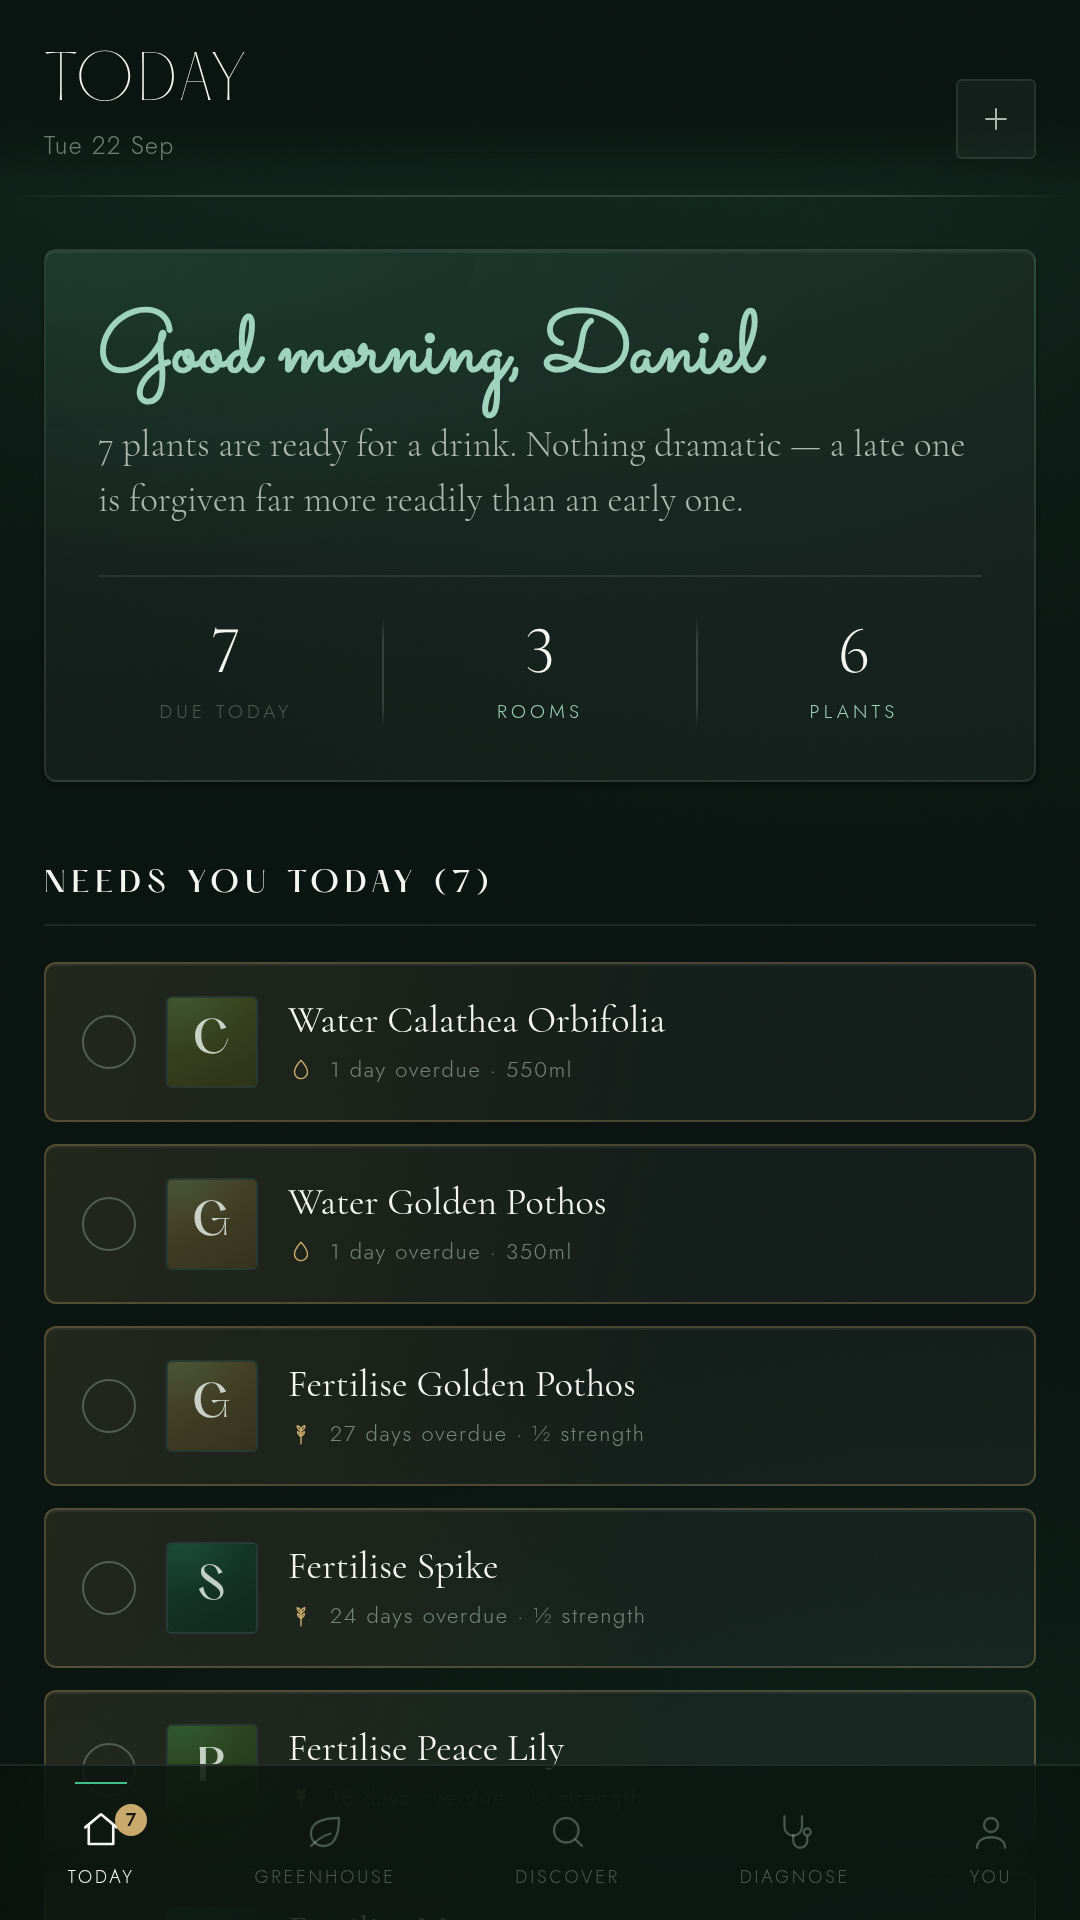
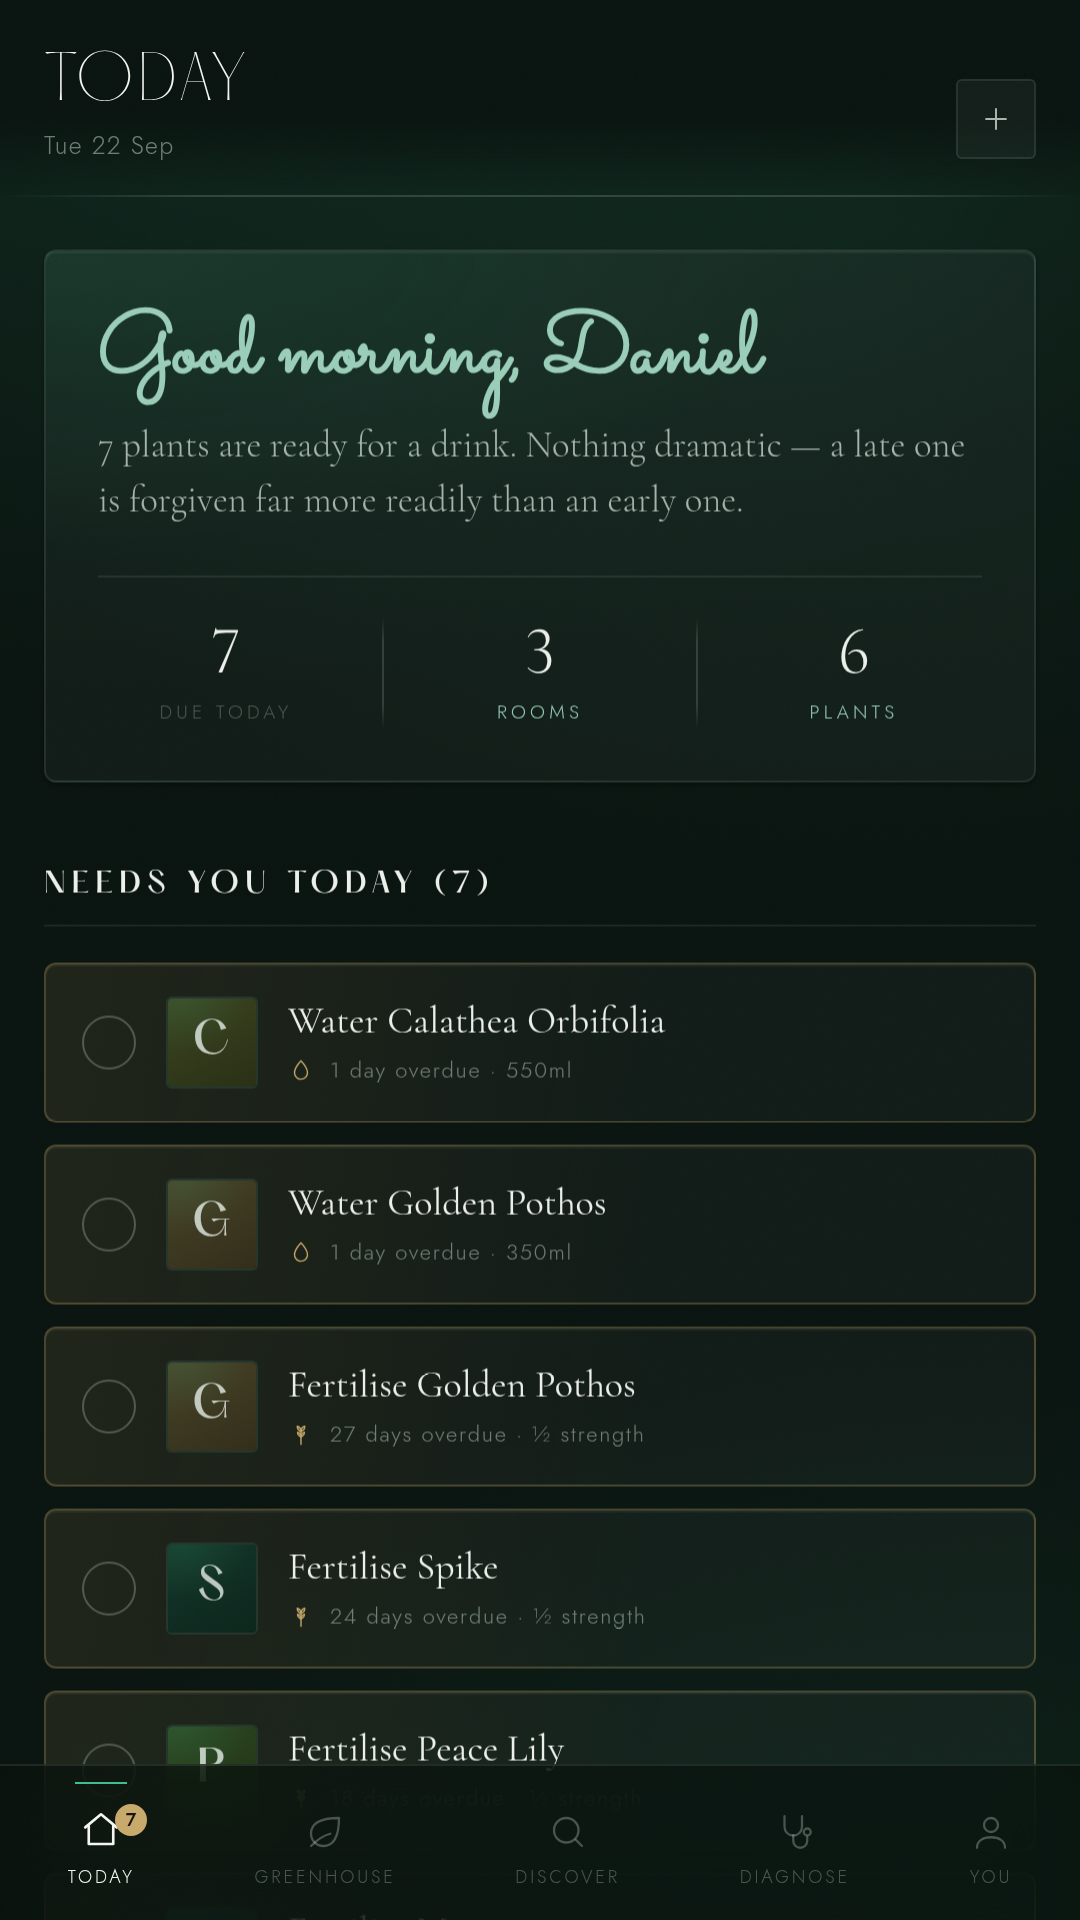
Put the forecast under the task list, and add the plan to the store set
The weather card sat directly under the greeting, above the one list the
Today screen exists for, and its bottom edge touched the heading below it.
Both were the same oversight from opposite ends: .weather-strip had a
margin-top and no margin-bottom, while .section has a margin-bottom and no
margin-top, so nothing separated them.

The forecast now follows the task list. It is context for the tasks rather
than a headline of its own, so what needs doing today is the first thing
past the greeting and the weather explains it afterwards.

The card takes .section's 42px as its bottom margin so it keeps the page's
rhythm. Adjacent margins collapse, so following a section that is one 42px
gap rather than two stacked — measured, not assumed: 42px above and 42px
below where there had been 0. No divider was added. The card already carries
a border, and a rule under a bordered box is a second line doing the first
one's job.

The store set gains the isometric home view as 3-plan.png, which is the most
distinctive screen in the app and the one most likely to earn an install. It
is a real device screenshot rather than a generated one because it cannot be
generated here: the view is behind a HOME toggle, mode starts at 'plan', and
headless cannot click, so it only ever reaches the flat grid.

It arrived at 1080x2229 — a ratio of 2.064, which Play rejects, since the
long side may be at most twice the short. Trimming 69px from the top lands
[…]

diff --git a/js/views/today.js b/js/views/today.js
@@ -232,7 +232,12 @@ window.ViewToday = (function () {
       '</div>' + weatherStrip();
     }
 
-    let html = greeting() + weatherStrip() + nudges();
+    /* The forecast used to sit directly under the greeting, above the one
+       list this screen exists for. It is context for the tasks, not a
+       headline of its own, so it now follows them — what needs doing today
+       is the first thing past the greeting, and the weather explains it
+       afterwards. */
+    let html = greeting() + nudges();
 
     const due = Schedule.tasks(0);
     const soon = Schedule.tasks(7).filter(function (t) { return t.days > 0; });
@@ -251,6 +256,8 @@ window.ViewToday = (function () {
             '<p class="tiny muted mt-0">No plants are in need — great job.</p>' +
           '</div>') +
     '</div>';
+
+    html += weatherStrip();
 
     if (soon.length) {
       html += '<div class="section">' +

diff --git a/css/styles.css b/css/styles.css
@@ -3320,7 +3320,13 @@ img { max-width: 100%; display: block; }
   grid-template-columns: auto minmax(0, 1fr);
   align-items: center;
   column-gap: 18px;
-  margin-top: 14px;
+  /* Bottom margin matches .section so the card keeps the page's rhythm
+     instead of butting straight into the next heading, which is what it did
+     when it only had a top margin. Adjacent margins collapse, so following a
+     .section this is one 42px gap rather than two stacked. No divider: the
+     card already carries a border, and a rule under a bordered box is a
+     second line doing the first one's job. */
+  margin: 14px 0 42px;
   padding: 22px;
   border: 1px solid var(--hair);
   border-radius: var(--r-lg);

diff --git a/sw.js b/sw.js
@@ -26,7 +26,7 @@
    weights, and two new files join the precache list. A returning visitor
    holding v4 would otherwise be served a shell asking for a font the old
    cache has never heard of. */
-const CACHE = 'sprout-v49-viridium';
+const CACHE = 'sprout-v50-viridium';
 
 /* Fonts live in their own cache, kept deliberately apart from the app shell.
    Two reasons. The shell cache is wiped on every version bump, and there is

diff --git a/native/store-listing.md b/native/store-listing.md
@@ -78,16 +78,24 @@ Works offline.
 
 ## Screenshots
 
-Five, in `store-assets/screenshots`, in the order they should be uploaded:
-Today, Greenhouse, a plant, Discover, Diagnose. Real screens with seeded
-data, not mockups — what is in them is what the app draws.
+Six, in `store-assets/screenshots`, numbered in the order they should be
+uploaded: Today, Greenhouse, the plan, a plant, Discover, Diagnose. Real
+screens, not mockups — what is in them is what the app draws.
 
-All are 1080x1920, 24-bit PNG with **no alpha channel**, which Play rejects.
-Play wants a minimum of two and allows eight, with every side between 320
-and 3840 and the long side no more than twice the short.
+24-bit PNG with **no alpha channel**, which Play rejects. Play wants a
+minimum of two and allows eight, every side between 320 and 3840, and the
+long side no more than twice the short.
 
-Regenerate them after a UI change with `.claude/seed.html`; the command and
+Five are 1080x1920 and generated from `.claude/seed.html`; the command and
 the reasons behind its odd numbers are in the comment at the top of it.
+
+`3-plan.png` is the exception, and is the one worth keeping. It is a real
+device screenshot of the isometric home view, which cannot be generated
+here: the view is behind a HOME toggle and `mode` starts at `'plan'`, so
+headless — which cannot click — only ever reaches the flat grid. It came in
+at 1080x2229, a ratio of 2.064, which Play rejects; 69px off the top brings
+it to exactly 2:1, and nothing is drawn in the first 116 rows, so nothing
+was lost. If the plan ever needs re-shooting, it has to come off a phone.
 
 ## Category and tags
 
